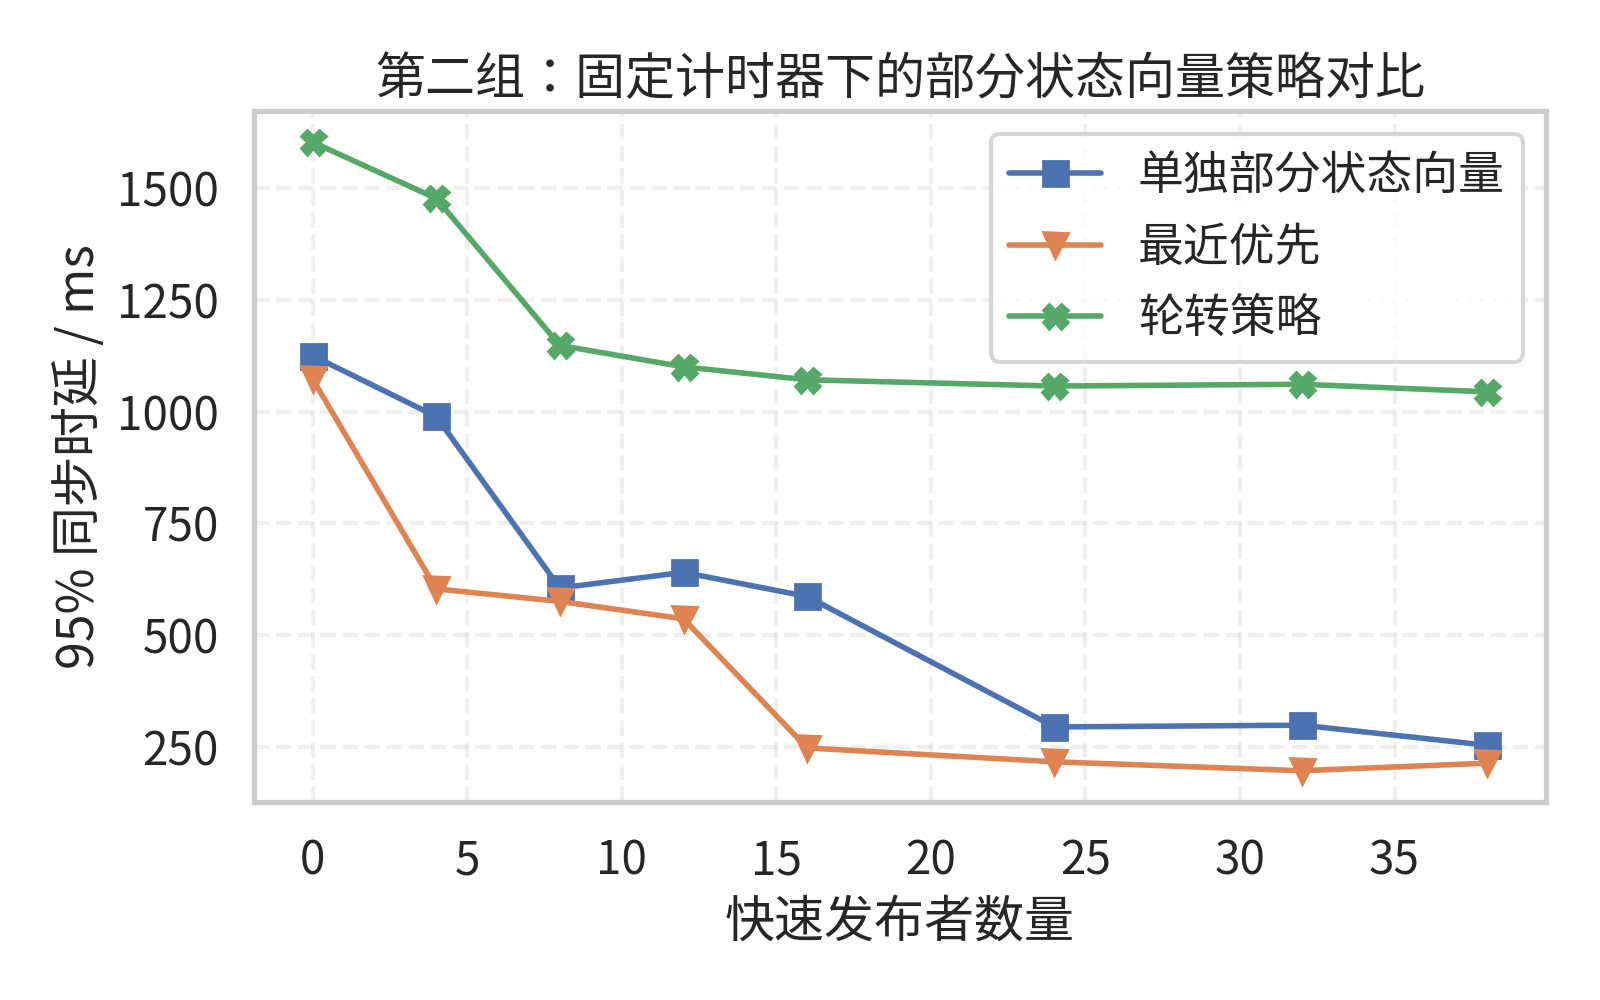
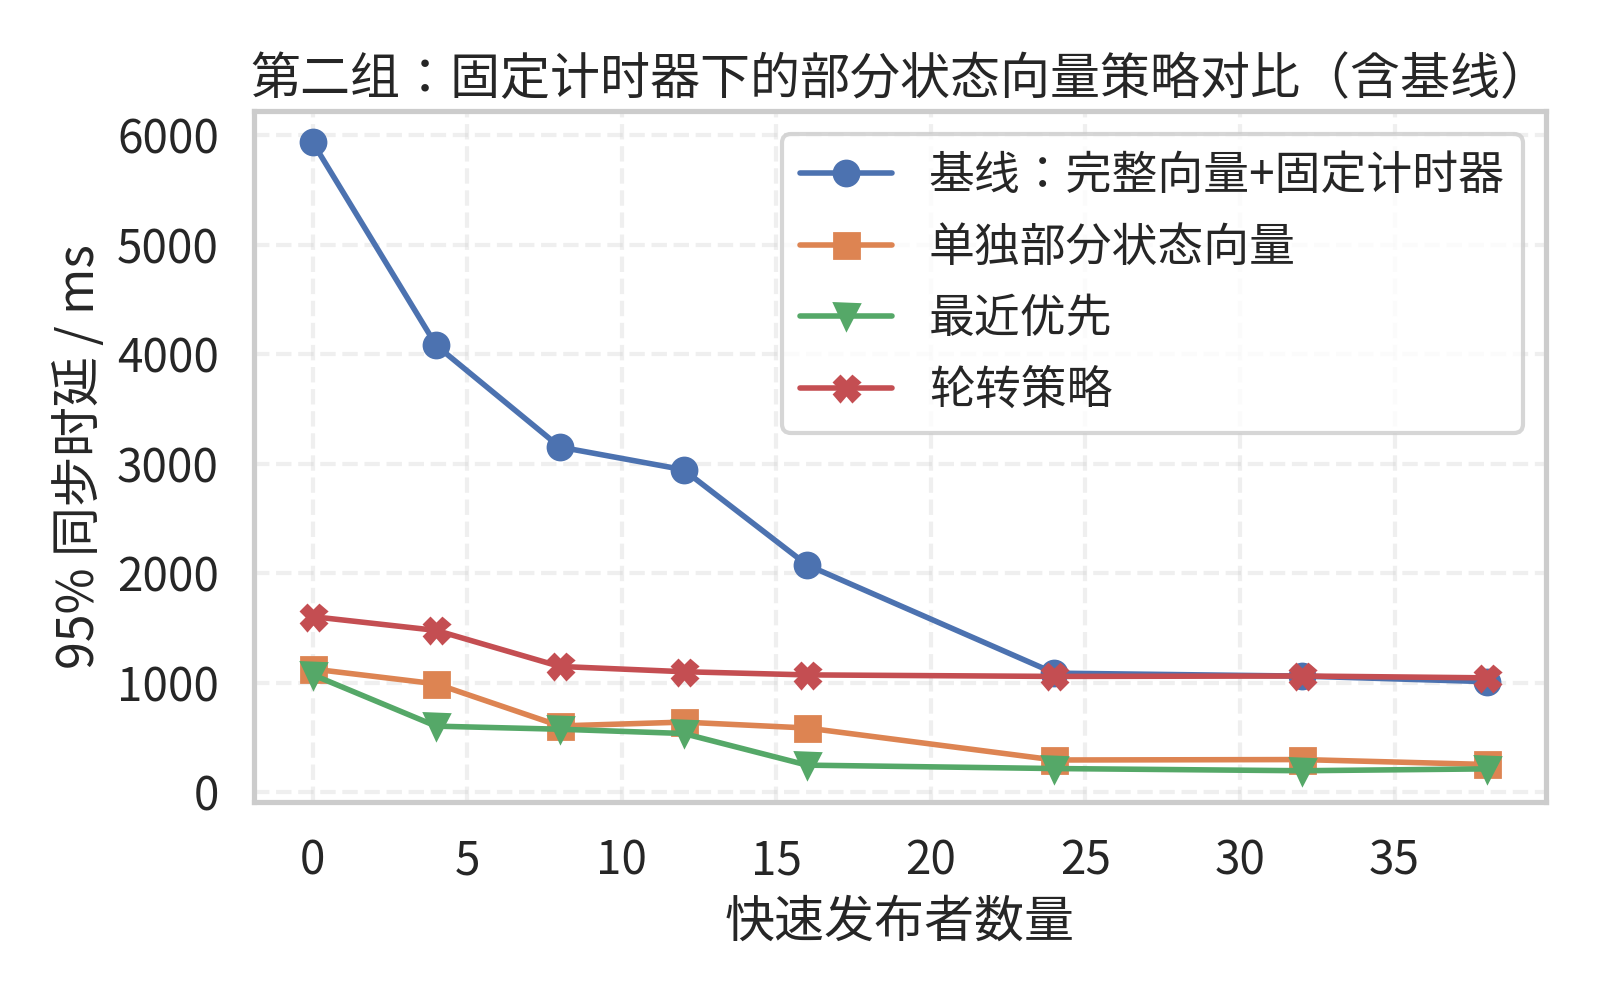
fix v2 image

diff --git a/results/paper-zh-network-aware-coord-v2-full/plots/结果汇总.md b/results/paper-zh-network-aware-coord-v2-full/plots/结果汇总.md
@@ -37,10 +37,18 @@
 | 单独部分状态向量 | 32 | 298 | 133.721 | 1898251 |
 | 单独部分状态向量 | 38 | 253 | 120.275 | 2066469 |
 
-## 第二组：固定计时器下的部分状态向量策略对比
+## 第二组：固定计时器下的部分状态向量策略对比（含基线）
 
 | 策略 | 快速发布者数 | P95 同步时延(ms) | 平均同步时延(ms) | 开销 |
 |---|---:|---:|---:|---:|
+| 基线：完整向量+固定计时器 | 0 | 5935 | 1763.957 | 233278 |
+| 基线：完整向量+固定计时器 | 4 | 4079 | 1000.751 | 605874 |
+| 基线：完整向量+固定计时器 | 8 | 3151 | 767.225 | 900439 |
+| 基线：完整向量+固定计时器 | 12 | 2944 | 531.958 | 1185624 |
+| 基线：完整向量+固定计时器 | 16 | 2074 | 459.978 | 1384267 |
+| 基线：完整向量+固定计时器 | 24 | 1087 | 268.313 | 1953848 |
+| 基线：完整向量+固定计时器 | 32 | 1060 | 258.778 | 2231844 |
+| 基线：完整向量+固定计时器 | 38 | 1009 | 240.146 | 2554342 |
 | 单独部分状态向量 | 0 | 1125 | 306.008 | 1321702 |
 | 单独部分状态向量 | 4 | 989 | 203.079 | 1392954 |
 | 单独部分状态向量 | 8 | 605 | 160.111 | 1562211 |
@@ -66,7 +74,7 @@
 | 轮转策略 | 32 | 1061 | 382.368 | 958613 |
 | 轮转策略 | 38 | 1044 | 392.705 | 1029902 |
 
-## 第三组：网络感知计时器与协同设计对比
+## 第三组：网络感知计时器与基线对比
 
 | 策略 | 快速发布者数 | P95 同步时延(ms) | 平均同步时延(ms) | 开销 |
 |---|---:|---:|---:|---:|
@@ -78,14 +86,6 @@
 | 基线：完整向量+固定计时器 | 24 | 1087 | 268.313 | 1953848 |
 | 基线：完整向量+固定计时器 | 32 | 1060 | 258.778 | 2231844 |
 | 基线：完整向量+固定计时器 | 38 | 1009 | 240.146 | 2554342 |
-| 协同设计 | 0 | 1102 | 279.314 | 1660503 |
-| 协同设计 | 4 | 546 | 155.053 | 1809462 |
-| 协同设计 | 8 | 400 | 139.655 | 2223446 |
-| 协同设计 | 12 | 394 | 141.583 | 2162398 |
-| 协同设计 | 16 | 363 | 133.503 | 1984958 |
-| 协同设计 | 24 | 303 | 126.938 | 2272480 |
-| 协同设计 | 32 | 295 | 137.907 | 2139351 |
-| 协同设计 | 38 | 291 | 127.656 | 2489067 |
 | 单独网络感知计时器 | 0 | 2671 | 795.796 | 712537 |
 | 单独网络感知计时器 | 4 | 737 | 250.93 | 1124865 |
 | 单独网络感知计时器 | 8 | 734 | 248.993 | 1330923 |
